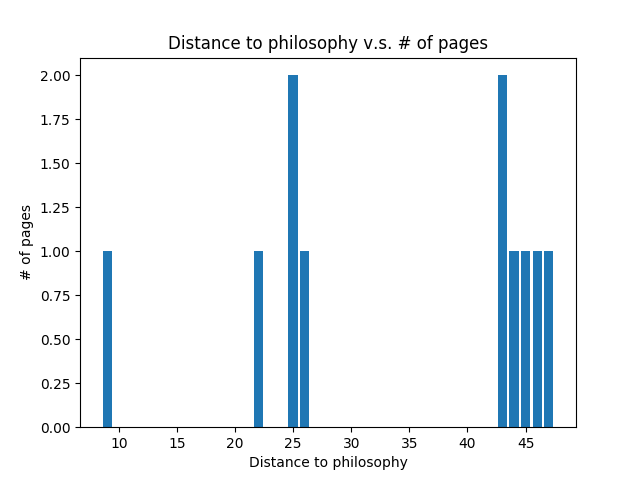
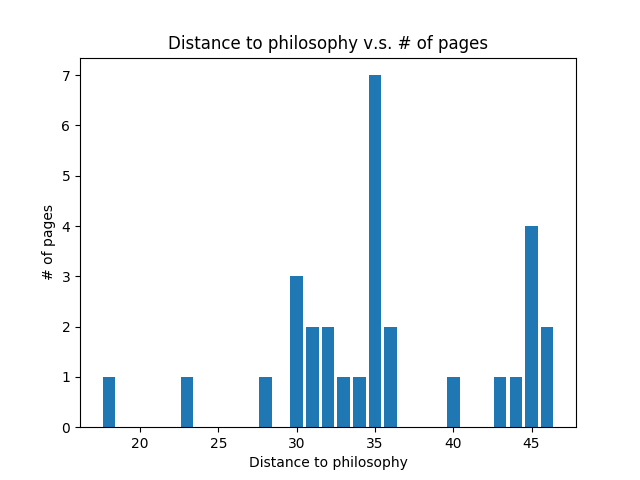
animals json for tree

diff --git a/Tree/ugly-wiki.py b/Tree/ugly-wiki.py
@@ -7,16 +7,18 @@ from collections import defaultdict
 import json
 import sys
 
-src_url = sys.argv[1]
-des_url = sys.argv[2]
+# src_url = sys.argv[1]
+# des_url = sys.argv[2]
 
 PAGE_CNT = 1 # number of pages used to draw the distribution of distance to philosophy
 TIME_LIMIT = 60 # define "unreachable to philosophy" as "can reach philosophy in 60 seconds"
 PREFIX = "https://en.wikipedia.org" # used to assist generating next visiting url
 PHILOSOPHY = "https://en.wikipedia.org/wiki/Philosophy" # target page
 
+
+INTERESTED = 'animals'
 sports_words = []
-with open(src_url, 'r') as f:
+with open( '../txts/' + INTERESTED + '.txt', 'r') as f:
     for line in f.readlines():
         word = line.strip('\n')
         sports_words.append("https://en.wikipedia.org/wiki/" + word)
@@ -104,9 +106,9 @@ class wiki_page():
                     self.url_candidates.append(url)
         return self.url_candidates
 
+
 def main():
     unreachable = 0 # unreachable url count
-    distri = defaultdict(int) # key: page idx, val: distance to philosophy
     memo = defaultdict(int) # a memo to record the visited page distances to philosophy
     PAGE_CNT = len(sports_words)
     res = [];
@@ -124,6 +126,7 @@ def main():
         res.append([page.url[30:]]) # avoid infinite loops
         # loop until philosophy is found.
         while page.url != PHILOSOPHY:
+            print (page.url)
             #if add_node not in data['nodes']:
                 #data["nodes"].append(add_node)
                 # nodes_set.add(page.url)
@@ -167,15 +170,9 @@ def main():
 
     # summary printout
     print ("res: \n", res)
-    # print ("data: \n", data)
-
-    # print ("memo: ", memo)
-    # print ("distribution: ", distri)
-    # print("unreachable: ", unreachable)
-    # print ( "reachable rate: " + str((PAGE_CNT - unreachable)/float(PAGE_CNT)))
 
     data = json.dumps(res)
-    with open(des_url, 'w') as f:
+    with open("../jsons/" + INTERESTED + '_tree' + ".json", 'w') as f:
         f.write(data)
 
 

diff --git a/wiki_trick.py b/wiki_trick.py
@@ -14,7 +14,7 @@ PREFIX = "https://en.wikipedia.org" # used to assist generating next visiting ur
 PHILOSOPHY = "https://en.wikipedia.org/wiki/Philosophy" # target page
 RANDOM_URL = "http://en.wikipedia.org/wiki/Special:Random" # this url is found by using Chrome developer mode
 sports_words = []
-INTERESTED = "compsci"
+INTERESTED = "animals"
 with open( './txts/' + INTERESTED + '.txt', 'r') as f:
     for line in f.readlines():
         word = line.strip('\n')
@@ -121,7 +121,7 @@ def main():
             page = wiki_page(sports_words[i])
             visited = [page] # avoid infinite loops
             while page.url != PHILOSOPHY:
-                print ("!!!" + page.url + "!!!")
+                print (page.url)
                 add_node = {"id": page.url, "group": 1}
                 if add_node not in data['nodes']:
                     data["nodes"].append(add_node)
